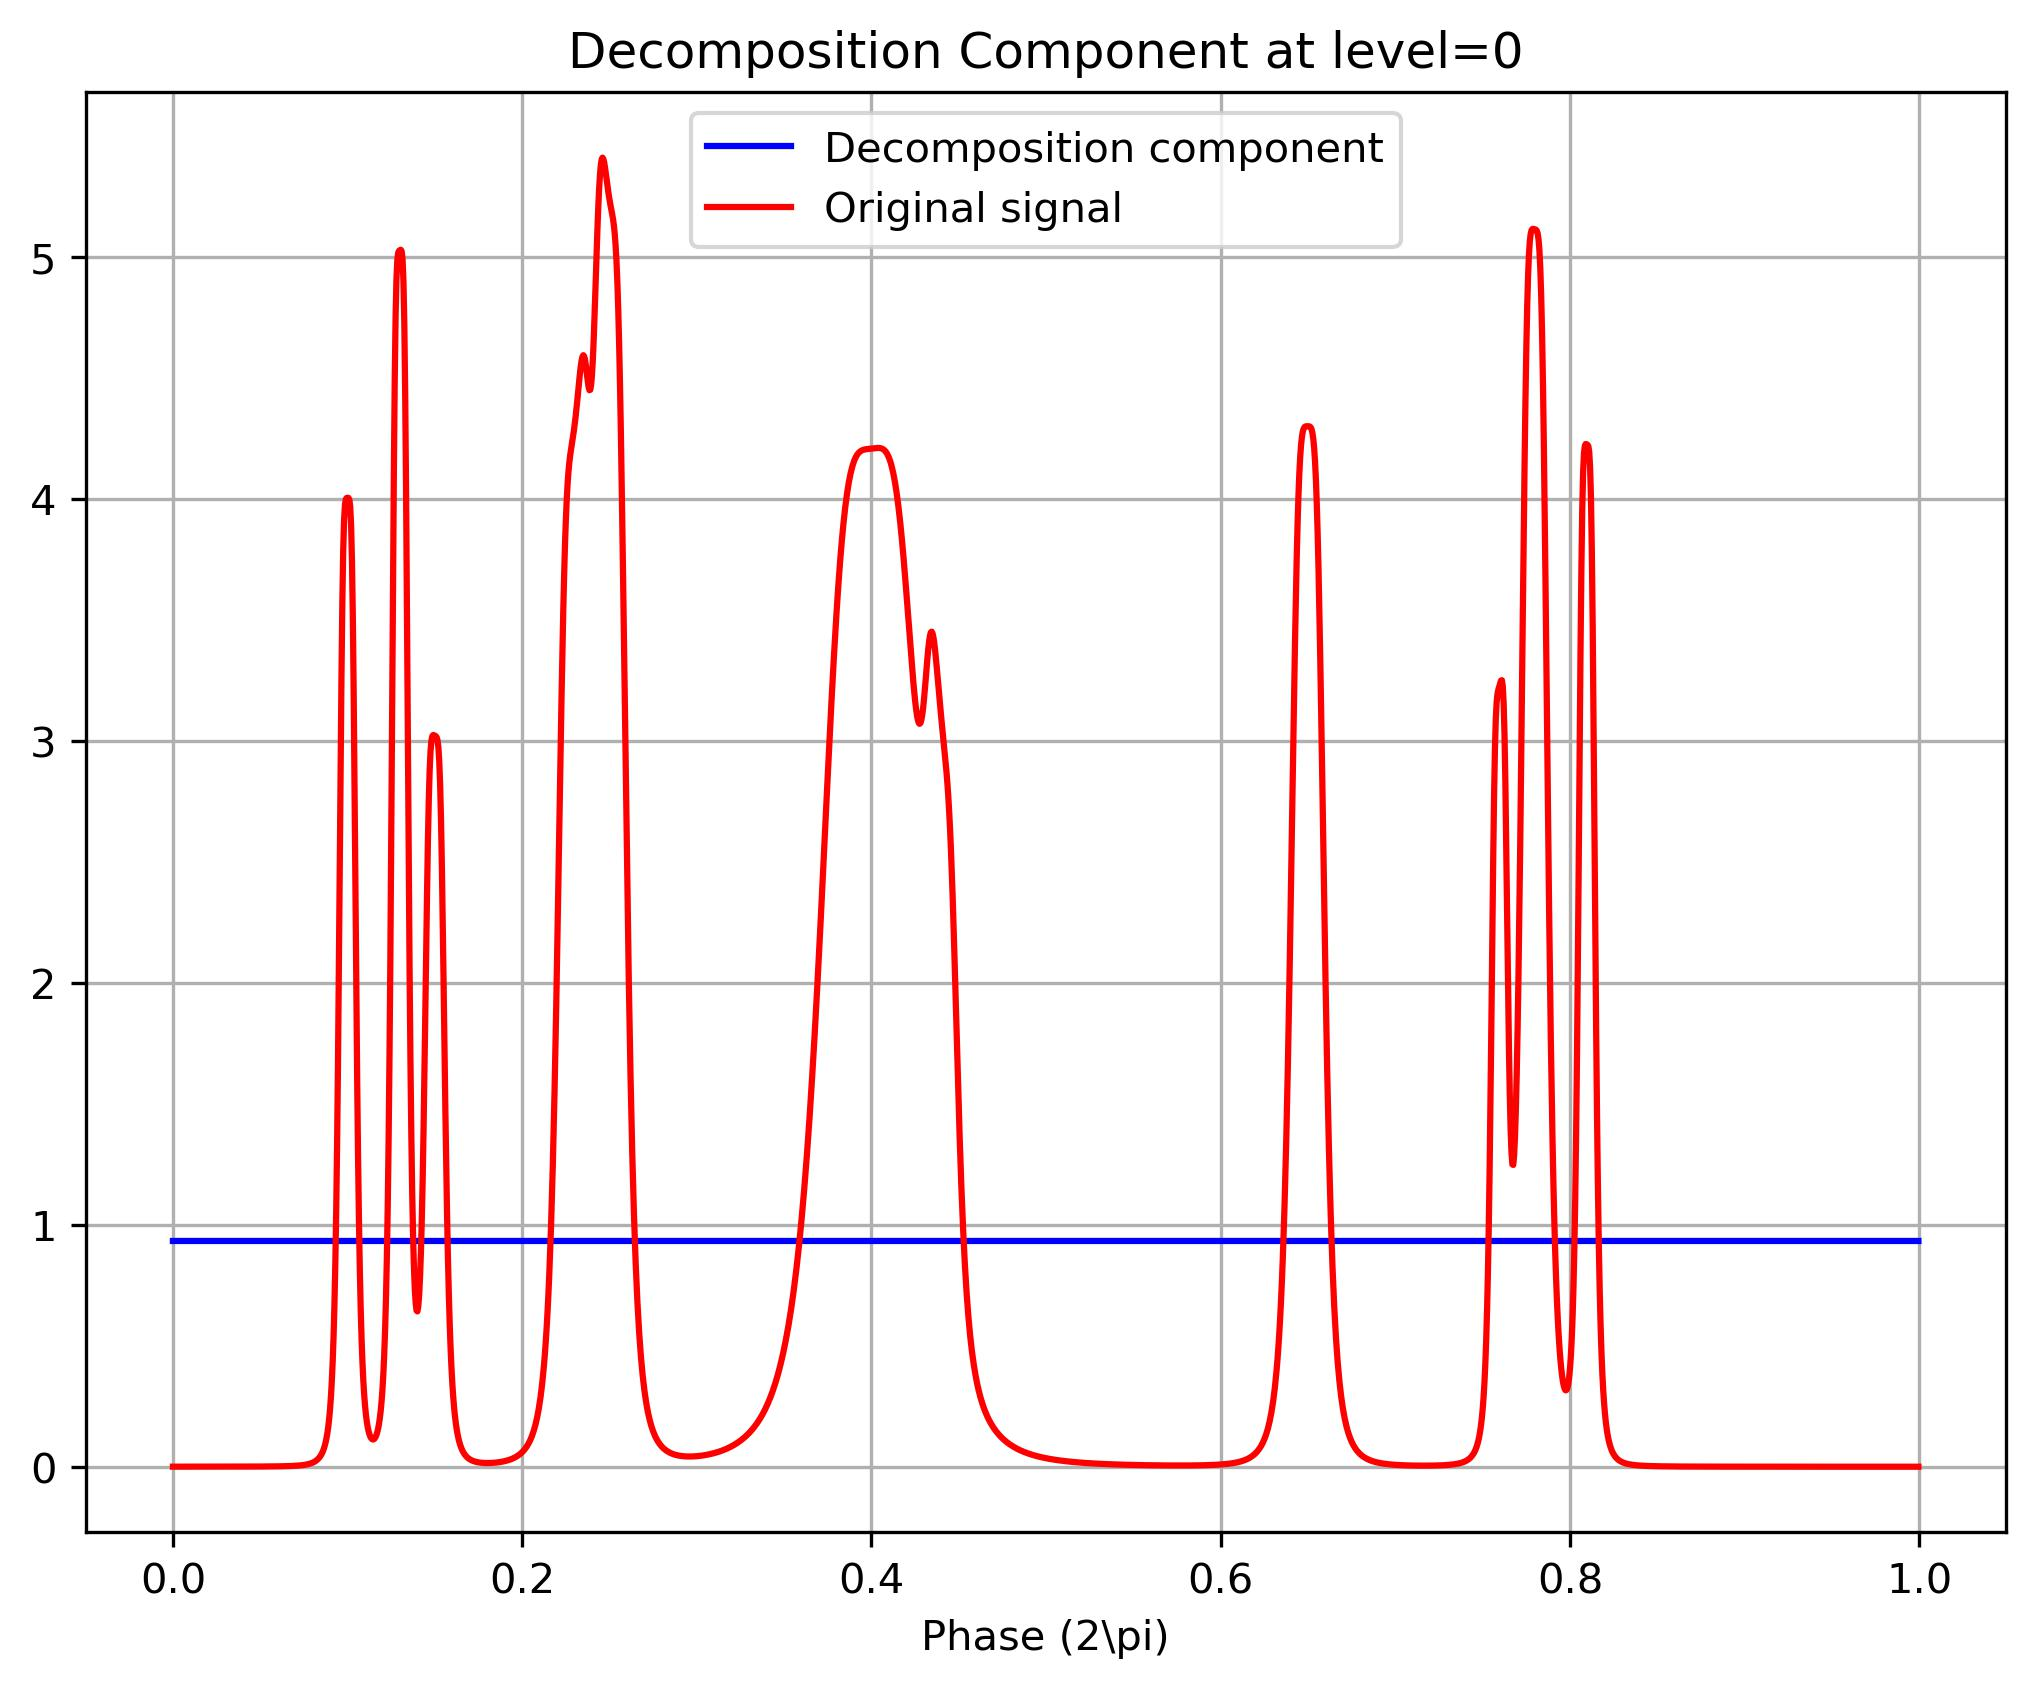
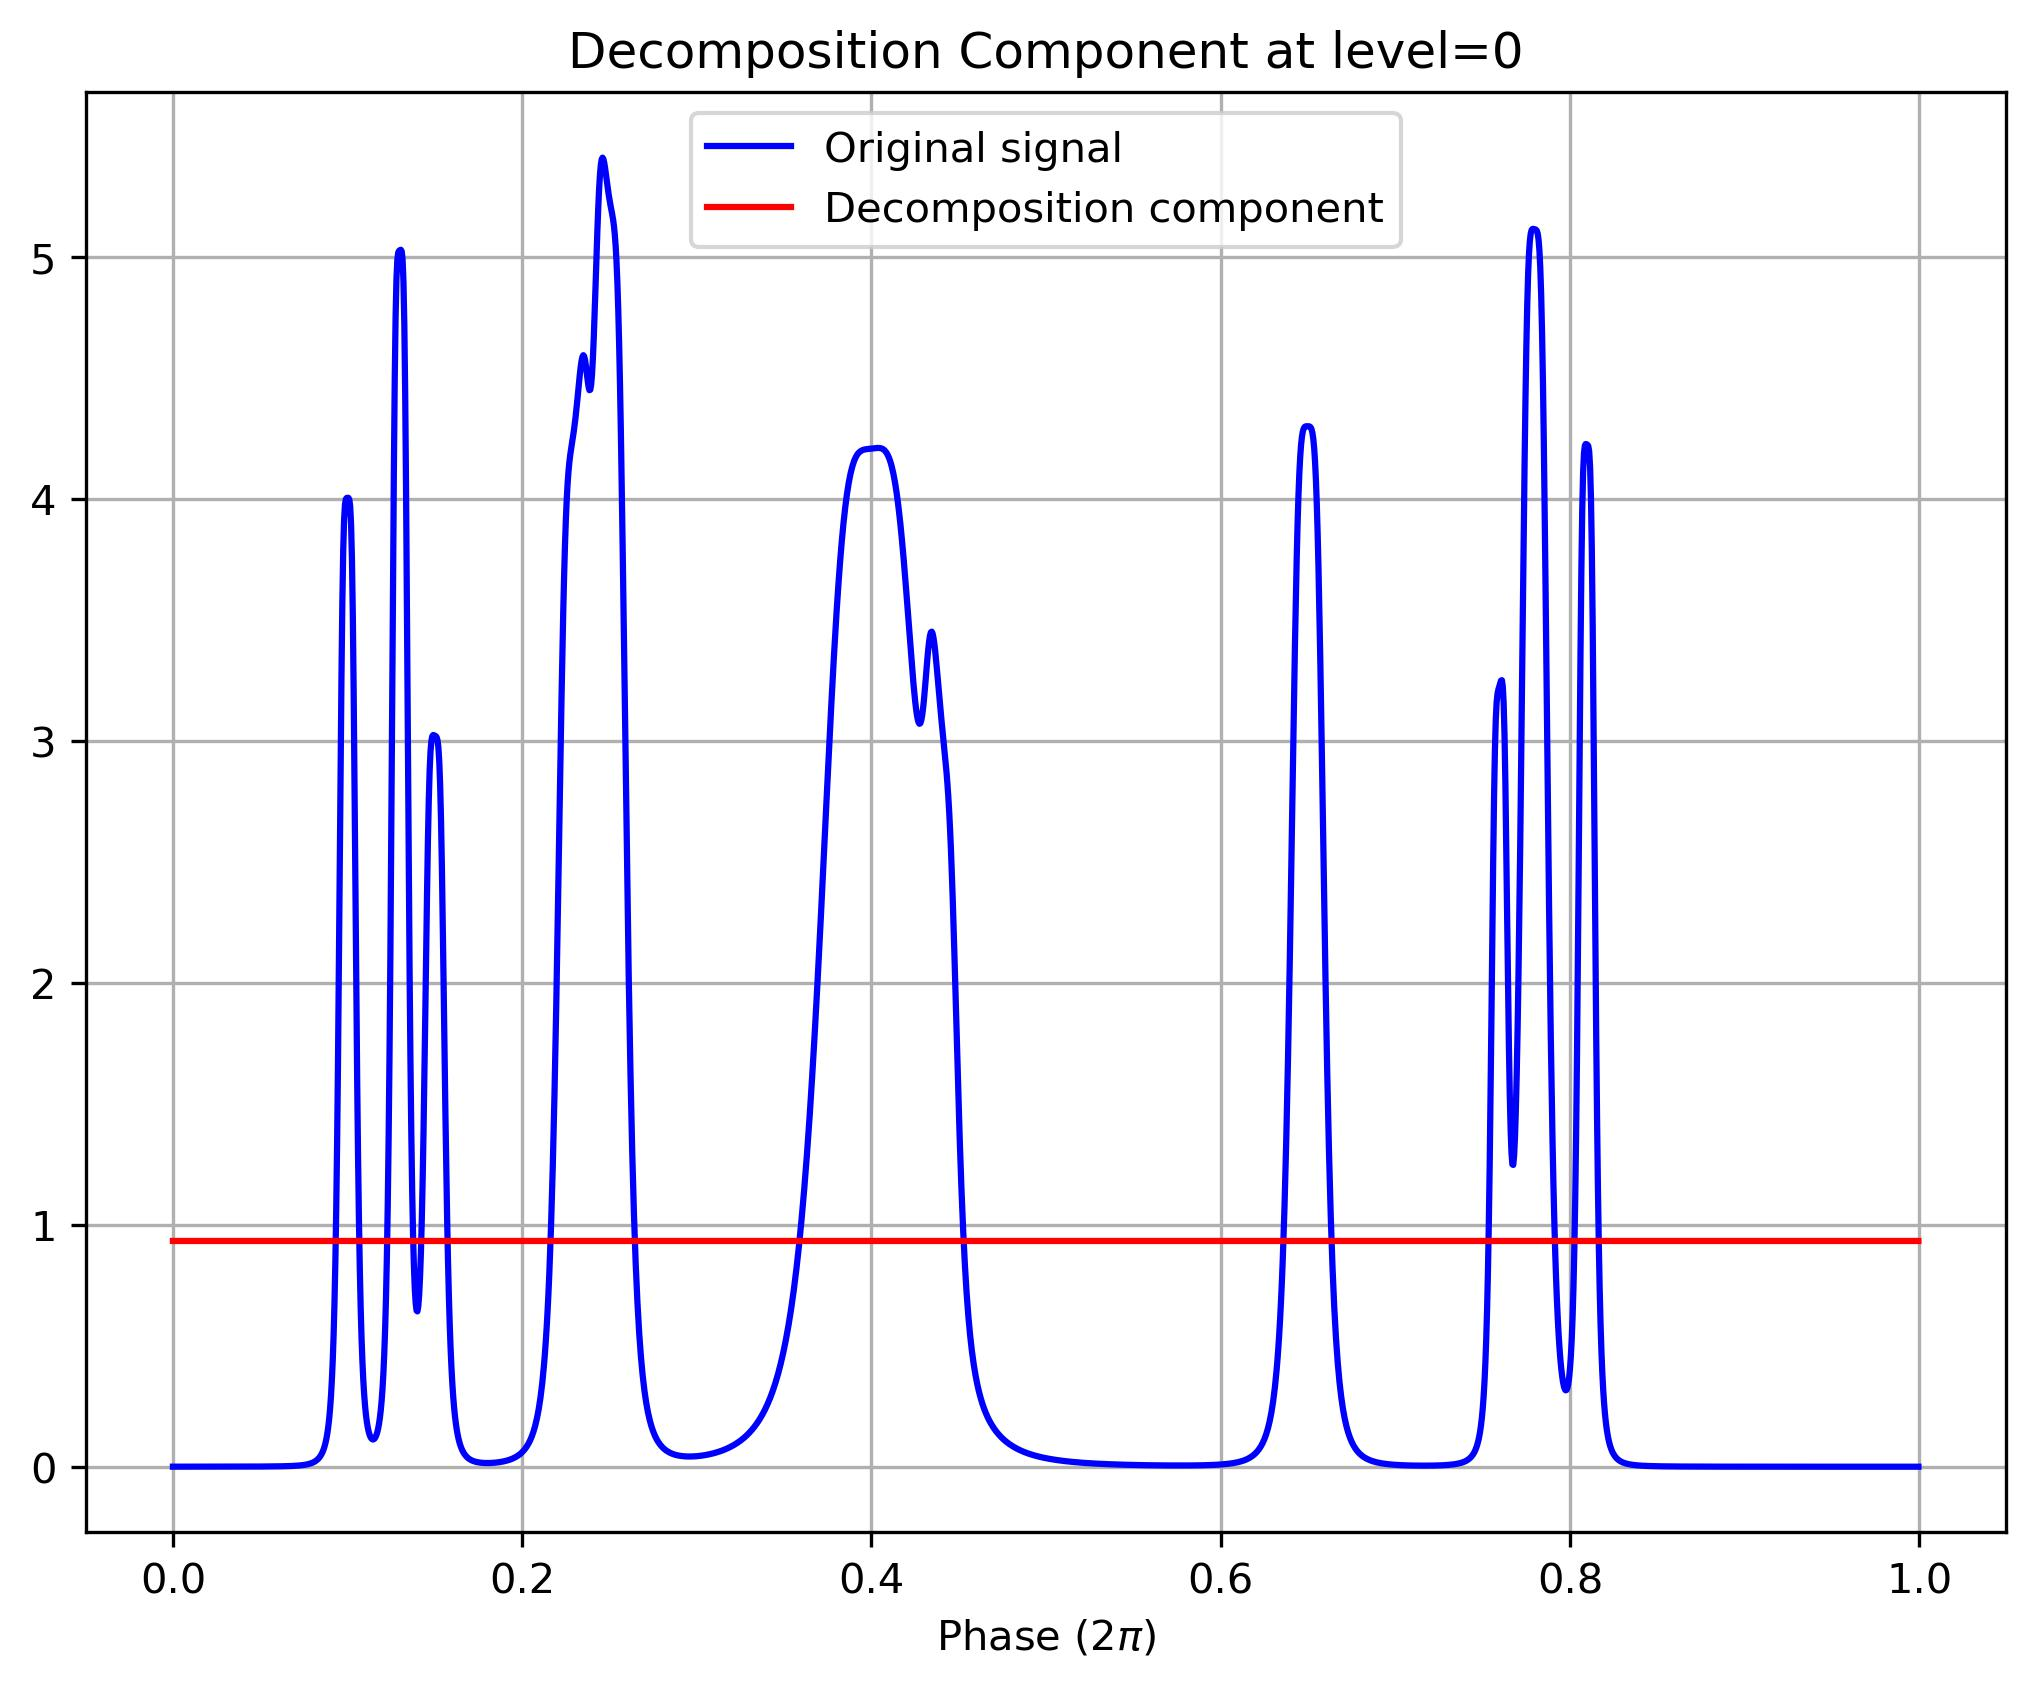
Fix bugs

diff --git a/Python/v2.0/AFDCal/_plot.py b/Python/v2.0/AFDCal/_plot.py
@@ -40,14 +40,19 @@ def plot_base(self,
     ax.plot(t, np.abs(base_val))
     ax.grid(True)
     ax.set_ylabel('Magnitude of Evaluator')
-    ax.set_xlabel('Phase (2\pi)')
-    ax.set_title('Evaluator at a = {:n}*exp(2\pi*1j*{:n})'.format(np.abs(dic_val), np.angle(dic_val)/(2*pi)))
+    ax.set_xlabel(r'Phase ($2\pi$)')
+    a_angle = np.angle(dic_val)/(2*pi)
+    while a_angle < 0:
+        a_angle += 1
+    while a_angle > 1:
+        a_angle -= 1
+    ax.set_title(r'Evaluator at $a = {:n} \cdot e^{{2\pi j \cdot ({:n}) }}$'.format(np.abs(dic_val), a_angle))
 
     ax = fig.add_axes([0,0,1,0.3])
     ax.plot(t, np.angle(base_val))
     ax.grid(True)
     ax.set_ylabel('Phase of Evaluator')
-    ax.set_xlabel('Phase (2\pi)')
+    ax.set_xlabel(r'Phase ($2\pi$)')
 
     return fig, ax
 
@@ -69,10 +74,36 @@ def plot_decomp(self,
     
     ax.grid(True)
     # ax.set_ylabel('Real part')
-    ax.set_xlabel('Phase (2\pi)')
+    ax.set_xlabel(r'Phase ($2\pi$)')
     ax.set_title('Decomposition Component at level={:n}'.format(level))
 
     ax.legend(labels=['Original signal',
                       'Decomposition component'])
+
+    return fig, ax
+
+def plot_basis_comp(self,
+                    level,
+                    figsize: List[float] = [6.4, 4.8]):
+    """
+    Plot basis component
+    """
+    base_val = self.tem_B[level][0,:]
+    t = self.t[0,:]/(2*pi)
+
+    fig = plt.figure(figsize=figsize)
+
+    ax = fig.add_axes([0,0.4,1,0.3])
+    ax.plot(t, np.real(base_val))
+    ax.grid(True)
+    ax.set_ylabel('Real part')
+    ax.set_xlabel(r'Phase ($2\pi$)')
+    ax.set_title('Basis Component at level={:n}'.format(level))
+
+    ax = fig.add_axes([0,0,1,0.3])
+    ax.plot(t, np.imag(base_val))
+    ax.grid(True)
+    ax.set_ylabel('Imaginary part')
+    ax.set_xlabel(r'Phase ($2\pi$)')
 
     return fig, ax

diff --git a/Python/v2.0/Example.py b/Python/v2.0/Example.py
@@ -13,22 +13,25 @@ afdcal.setDicGenMethod(2)
 # generate dictionary
 afdcal.genDic(0.1, 0.9)
 
-fig, _ = afdcal.plot_dict()
 print("Time of generating the searching dictionary: {:n} s".format(afdcal.time_genDic))
+fig, _ = afdcal.plot_dict()
 fig.savefig('example_res/searching_dictionary.jpg', 
             bbox_inches='tight', dpi=300)
 # generate evaluator
 afdcal.genEva()
 
+print("Time of generating evaluators: {:n} s".format(afdcal.time_genEva))
 row_dic, col_dic = afdcal.dic_an.shape
 fig, _ = afdcal.plot_base(np.random.randint(0,row_dic),np.random.randint(0,col_dic))
-print("Time of generating evaluators: {:n} s".format(afdcal.time_genEva))
 fig.savefig('example_res/evaluator.jpg', 
             bbox_inches='tight', dpi=300)
 # Initilize decomposition
 afdcal.init_decomp()
 
-fig, _ = afdcal.plot_decomp(0)
 print("Time of decomposition at level={:n}: {:n} s".format(0,afdcal.run_time[0]))
+fig, _ = afdcal.plot_decomp(0)
 fig.savefig('example_res/decomp_comp_level_{:n}.jpg'.format(0), 
             bbox_inches='tight', dpi=300)
+fig, _ = afdcal.plot_basis_comp(0)
+fig.savefig('example_res/basis_comp_level_{:n}.jpg'.format(0), 
+            bbox_inches='tight', dpi=300)           

diff --git a/Python/v2.0/AFDCal/_decomposition.py b/Python/v2.0/AFDCal/_decomposition.py
@@ -7,7 +7,7 @@ from math import pi
 import warnings
 from time import time
 
-from ._utils import Unit_Disk, Circle_Disk, e_a, intg
+from ._utils import Unit_Disk, Circle_Disk, e_a, calCoef
 
 def genDic(self, 
            dist : float,
@@ -98,7 +98,8 @@ def init_decomp(self):
 
     an = 0
     self.an.append(an)
-    coef = intg(self.remainder, np.ones((1,self.t.shape[1])), self.weight)
+    # coef = intg(self.remainder, np.ones((1,self.t.shape[1])), self.weight)
+    coef = calCoef(an, self.t, self.remainder, self.weight)
     self.coef.append(coef)
 
     tem_B = (np.sqrt(1-np.abs(an)**2)/(1-np.conj(an)*np.exp(self.t*1j)))

diff --git a/Python/v2.0/AFDCal/__init__.py b/Python/v2.0/AFDCal/__init__.py
@@ -20,6 +20,6 @@ class AFDCal:
     from ._initfun import initSetting, loadInputSignal, setDecompMethod, setDicGenMethod, setAFDMethod
     from ._logfun import clearLog, addLog, dispLog
     from ._decomposition import genDic, genEva, init_decomp
-    from ._plot import plot_dict, plot_base, plot_decomp
+    from ._plot import plot_dict, plot_base, plot_decomp, plot_basis_comp
 
     

diff --git a/Python/v2.0/AFDCal/_utils.py b/Python/v2.0/AFDCal/_utils.py
@@ -103,6 +103,9 @@ def e_a(a, t):
 def genWeight(N):
     return np.ones((N,1),'complex')
 
-def intg(f,g,W):
-    y = f.dot(g.T*W)
-    return y/f.shape[1]
+# def intg(f,g,W):
+#     y = f.dot(g.T*W)
+#     return y/f.shape[1]
+
+def calCoef(a, t, G, W):
+    return np.conj(e_a(a, t).dot(G.conj().T * W))/G.shape[1]
